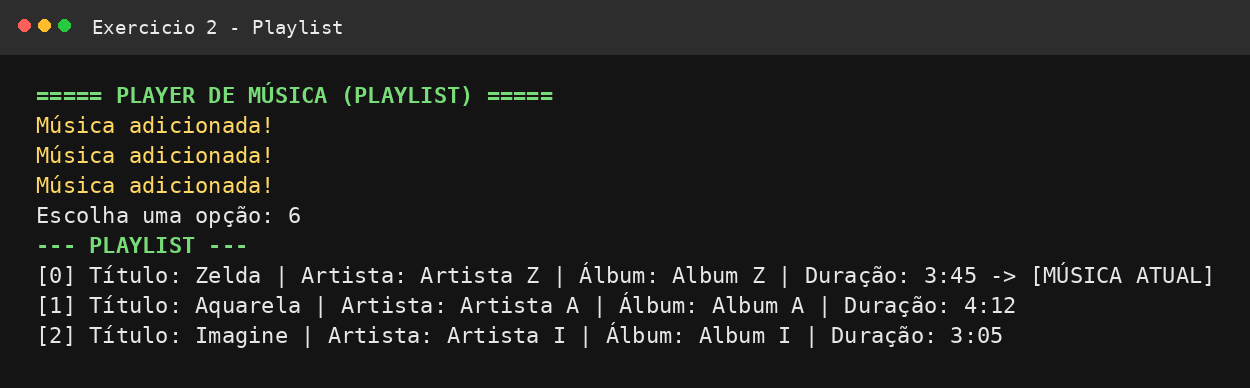
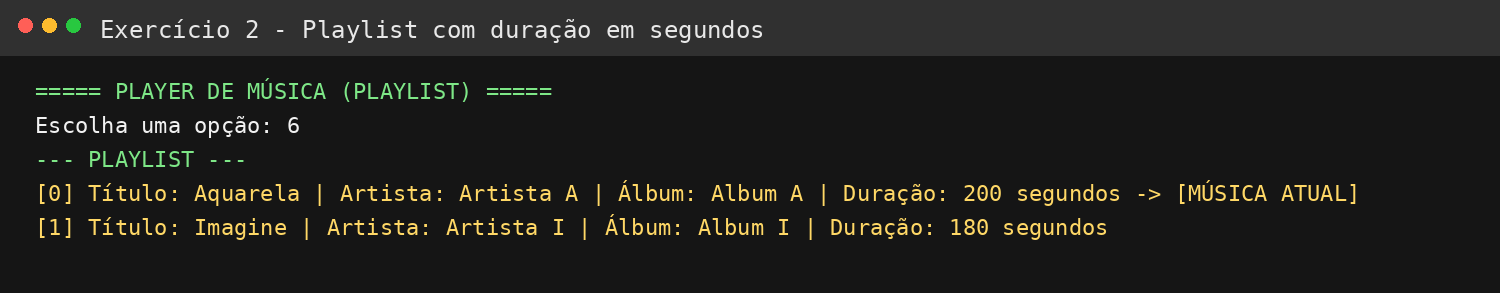
Adiciona screenshots da execução do trabalho

Changed region(s): [[0.0, 0.0307, 1.0, 0.5836], [0.0312, 0.6143, 0.9672, 0.8908]]

diff --git a/src/Exercicio2/Main.java b/src/Exercicio2/Main.java
@@ -44,25 +44,41 @@ public class Main {
                     String art = scanner.nextLine();
                     System.out.print("Álbum: ");
                     String alb = scanner.nextLine();
-                    System.out.print("Duração (ex: 3:45): ");
-                    String dur = scanner.nextLine();
+                    System.out.print("Duração em segundos: ");
+                    if (!scanner.hasNextInt()) {
+                        scanner.nextLine();
+                        System.out.println("Duração inválida. Informe um número inteiro.");
+                        break;
+                    }
+                    int dur = scanner.nextInt();
+                    scanner.nextLine();
+                    if (dur < 0) {
+                        System.out.println("A duração não pode ser negativa.");
+                        break;
+                    }
 
                     System.out.println("Onde adicionar? (1-Início, 2-Fim, 3-Posição Específica): ");
                     int posOp = scanner.nextInt();
                     scanner.nextLine();
 
                     Musica m = new Musica(t, alb, art, dur);
+                    boolean adicionada;
                     if (posOp == 1) {
                         playlist.adicionarInicio(m);
+                        adicionada = true;
                     } else if (posOp == 3) {
                         System.out.print("Digite o índice (0 a " + playlist.getTamanho() + "): ");
                         int idx = scanner.nextInt();
                         scanner.nextLine();
-                        playlist.adicionarPosicao(idx, m);
-                    } else {
+                        adicionada = playlist.adicionarPosicao(idx, m);
+                    } else if (posOp == 2) {
                         playlist.adicionarFim(m);
+                        adicionada = true;
+                    } else {
+                        System.out.println("Opção de inserção inválida!");
+                        break;
                     }
-                    System.out.println("Música adicionada!");
+                    System.out.println(adicionada ? "Música adicionada!" : "Posição inválida!");
                     break;
 
                 case 5:
@@ -70,14 +86,24 @@ public class Main {
                         System.out.println("Playlist vazia!");
                         break;
                     }
-                    System.out.print("Digite a posição da música a remover (0 a " + (playlist.getTamanho() - 1) + "): ");
-                    int rmIdx = scanner.nextInt();
+                    System.out.println("Remover por: 1-Posição | 2-Título");
+                    int tipoRemocao = scanner.nextInt();
                     scanner.nextLine();
-                    if (playlist.removerPorPosicao(rmIdx)) {
-                        System.out.println("Música removida!");
+                    boolean removida;
+                    if (tipoRemocao == 1) {
+                        System.out.print("Digite a posição da música a remover (0 a "
+                                + (playlist.getTamanho() - 1) + "): ");
+                        int rmIdx = scanner.nextInt();
+                        scanner.nextLine();
+                        removida = playlist.removerPorPosicao(rmIdx);
+                    } else if (tipoRemocao == 2) {
+                        System.out.print("Digite o título da música: ");
+                        removida = playlist.removerPorTitulo(scanner.nextLine());
                     } else {
-                        System.out.println("Posição inválida!");
+                        System.out.println("Opção de remoção inválida!");
+                        break;
                     }
+                    System.out.println(removida ? "Música removida!" : "Música não encontrada ou posição inválida!");
                     break;
 
                 case 6:

diff --git a/src/Exercicio2/ListaDupla.java b/src/Exercicio2/ListaDupla.java
@@ -87,6 +87,22 @@ public class ListaDupla<T> {
         return true;
     }
 
+    // Remove a primeira música encontrada pelo título, sem diferenciar maiúsculas/minúsculas.
+    public boolean removerPorTitulo(String titulo) {
+        if (titulo == null || estaVazia()) return false;
+
+        No<T> aux = inicio;
+        while (aux != null) {
+            if (aux.getDado() instanceof Musica musica
+                    && musica.getTitulo().equalsIgnoreCase(titulo.trim())) {
+                removerNo(aux);
+                return true;
+            }
+            aux = aux.getProximo();
+        }
+        return false;
+    }
+
     private void removerNo(No<T> no) {
         if (no == atual) {
             atual = (no.getProximo() != null) ? no.getProximo() : no.getAnterior();
@@ -157,13 +173,15 @@ public class ListaDupla<T> {
     public void ordenarPorTituloOuArtista(boolean porTitulo) {
         if (tamanho < 2) return;
 
-        for (No<Musica> i = (No<Musica>) inicio; i != null; i = i.getProximo()) {
-            for (No<Musica> j = i.getProximo(); j != null; j = j.getProximo()) {
-                String val1 = porTitulo ? i.getDado().getTitulo() : i.getDado().getArtista();
-                String val2 = porTitulo ? j.getDado().getTitulo() : j.getDado().getArtista();
+        for (No<T> i = inicio; i != null; i = i.getProximo()) {
+            for (No<T> j = i.getProximo(); j != null; j = j.getProximo()) {
+                Musica musicaI = (Musica) i.getDado();
+                Musica musicaJ = (Musica) j.getDado();
+                String val1 = porTitulo ? musicaI.getTitulo() : musicaI.getArtista();
+                String val2 = porTitulo ? musicaJ.getTitulo() : musicaJ.getArtista();
 
                 if (val1.compareToIgnoreCase(val2) > 0) {
-                    Musica aux = i.getDado();
+                    T aux = i.getDado();
                     i.setDado(j.getDado());
                     j.setDado(aux);
                 }

diff --git a/src/Exercicio2/Musica.java b/src/Exercicio2/Musica.java
@@ -4,9 +4,9 @@ public class Musica {
     private String titulo;
     private String album;
     private String artista;
-    private String duracao;
+    private int duracao;
 
-    public Musica(String titulo, String album, String artista, String duracao) {
+    public Musica(String titulo, String album, String artista, int duracao) {
         this.titulo = titulo;
         this.album = album;
         this.artista = artista;
@@ -25,12 +25,13 @@ public class Musica {
         return artista;
     }
 
-    public String getDuracao() {
+    public int getDuracao() {
         return duracao;
     }
 
     @Override
     public String toString() {
-        return "Título: " + titulo + " | Artista: " + artista + " | Álbum: " + album + " | Duração: " + duracao;
+        return "Título: " + titulo + " | Artista: " + artista + " | Álbum: " + album
+                + " | Duração: " + duracao + " segundos";
     }
 }
